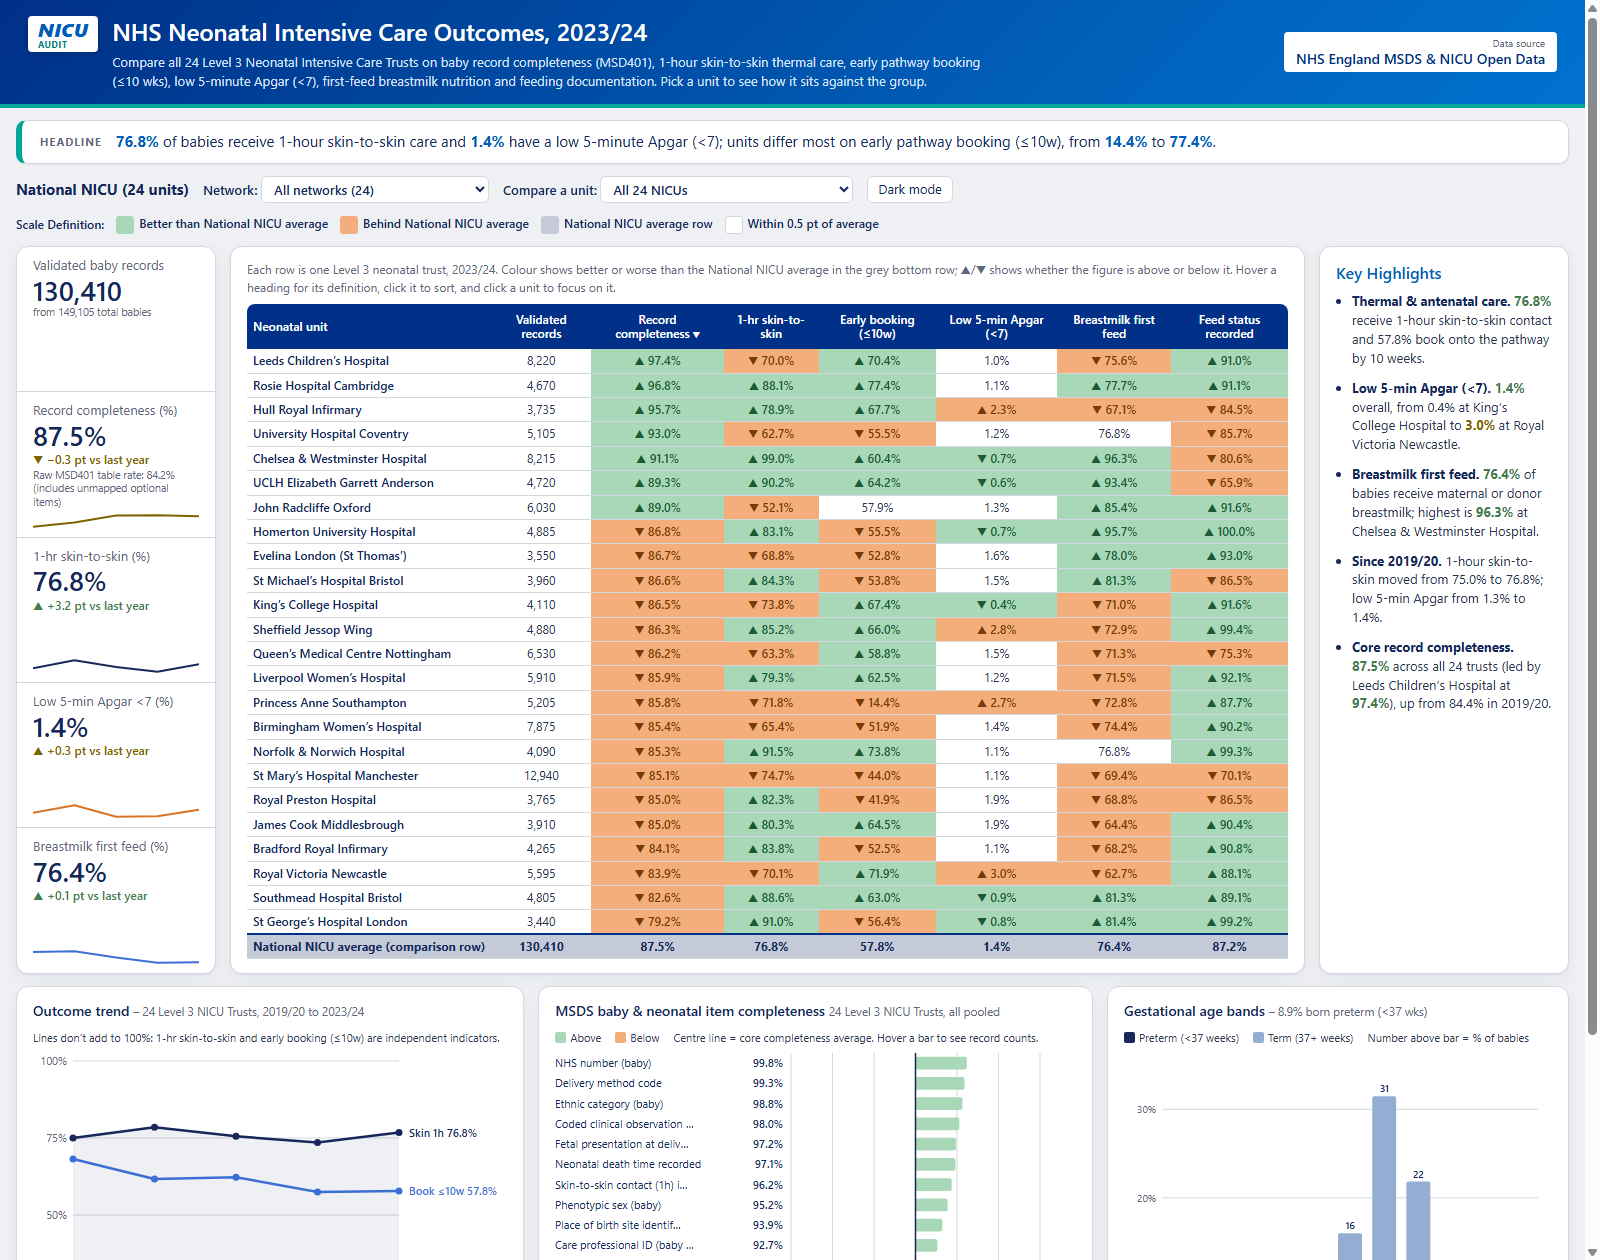
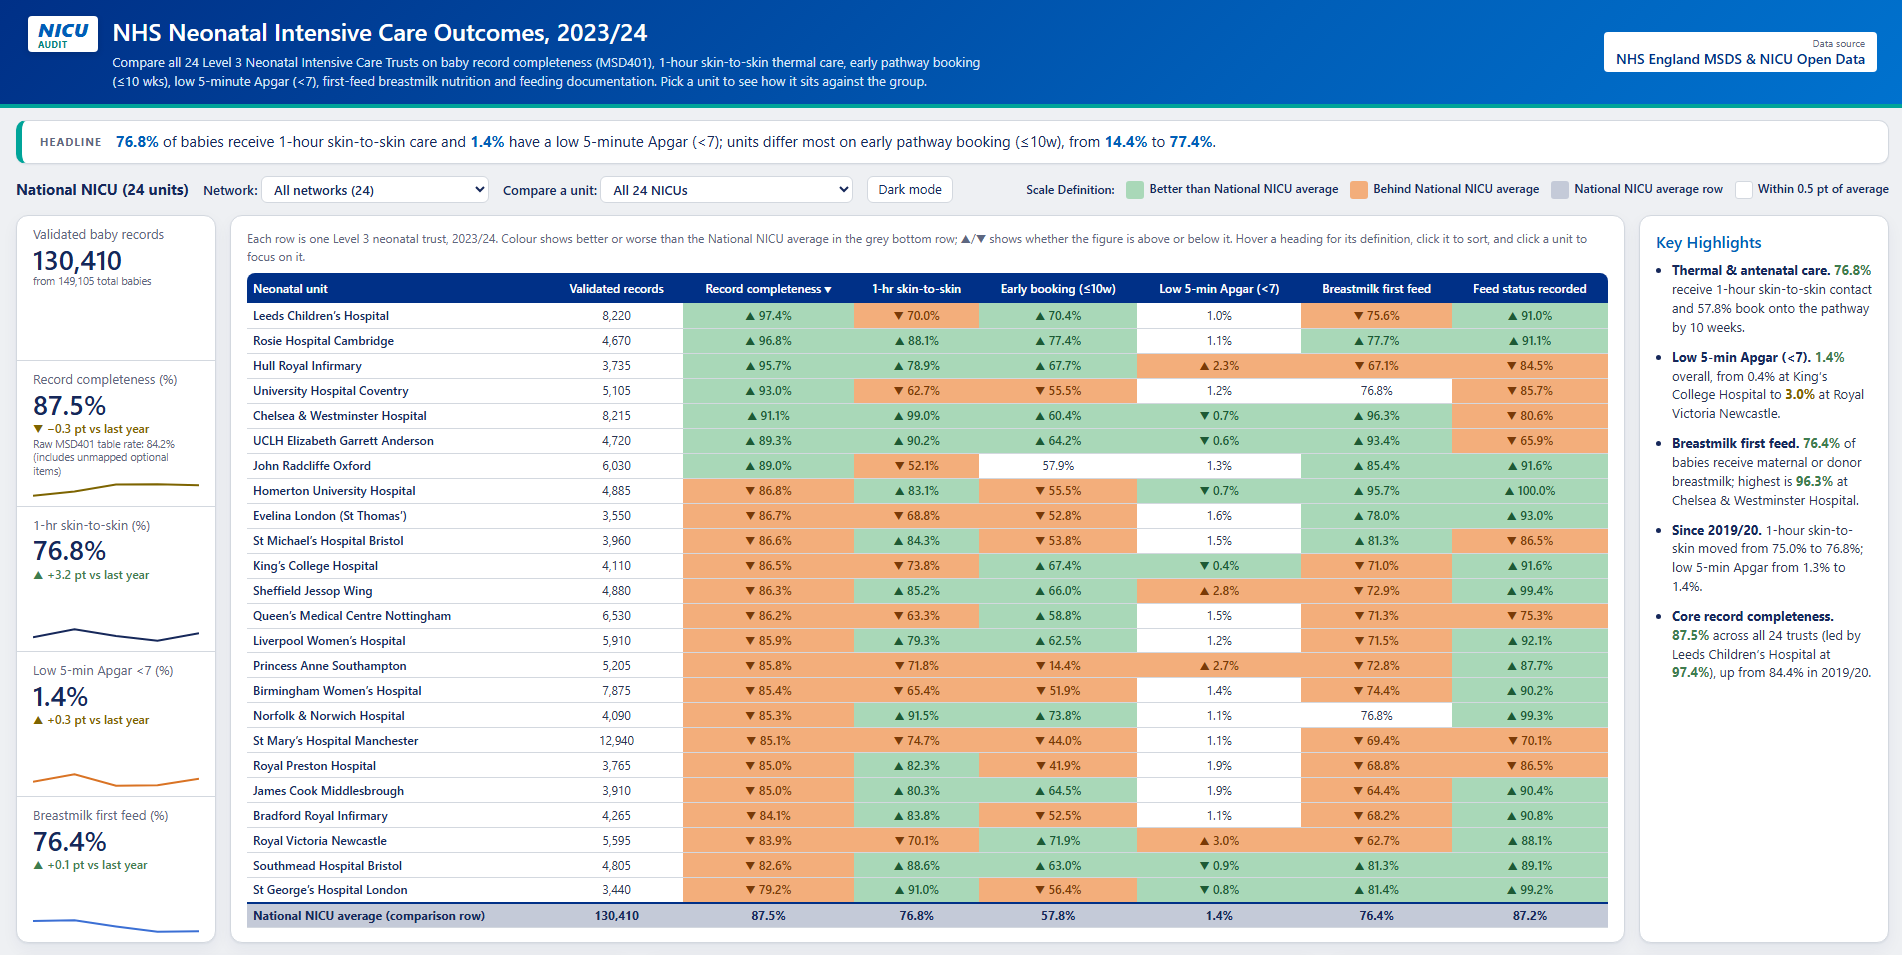
Crop NHS_Neonatal_cover.png to full-bleed 1902x955 matching Russell Group cover

diff --git a/script.js b/script.js
@@ -26,7 +26,7 @@
             title: "NHS Neonatal Intensive Care Outcomes 2023/24: Clinical Audit & MSDS Data Quality",
             question: "How do England's 24 Level 3 Neonatal Intensive Care Trusts compare on baby record completeness (MSD401) and perinatal care?",
             embedUrl: "https://subramanian-ms.github.io/nhs-neonatal-outcomes-dashboard/",
-            coverImg: "images/NHS_Neonatal_cover.png?v=20261031e",
+            coverImg: "images/NHS_Neonatal_cover.png?v=20261031f",
             coverAlt: "NHS Neonatal Intensive Care Outcomes 2023/24 Dashboard",
             tags: ["Python (pandas)", "NHS England open data", "NHS disclosure control", "MSDS data quality", "22 automated checks"],
             summary: "An interactive clinical and data-quality dashboard comparing all 24 English Level 3 Neonatal Intensive Care Trusts across Operational Delivery Networks (including Yorkshire & Humber) on core baby record completeness (MSD401), 1-hour skin-to-skin thermal care, early pathway booking (≤10 wks), low 5-minute Apgar (<7), first-feed breastmilk nutrition and feeding documentation.",
@@ -48,7 +48,7 @@
             title: "NHS Neonatal Intensive Care Outcomes 2023/24: Clinical Audit & MSDS Data Quality",
             question: "How do England's 24 Level 3 Neonatal Intensive Care Trusts compare on baby record completeness (MSD401) and perinatal care?",
             embedUrl: "https://subramanian-ms.github.io/nhs-neonatal-outcomes-dashboard/",
-            coverImg: "images/NHS_Neonatal_cover.png?v=20261031e",
+            coverImg: "images/NHS_Neonatal_cover.png?v=20261031f",
             coverAlt: "NHS Neonatal Intensive Care Outcomes 2023/24 Dashboard",
             tags: ["Python (pandas)", "NHS England open data", "NHS disclosure control", "MSDS data quality", "22 automated checks"],
             summary: "An interactive clinical and data-quality dashboard comparing all 24 English Level 3 Neonatal Intensive Care Trusts across Operational Delivery Networks (including Yorkshire & Humber) on core baby record completeness (MSD401), 1-hour skin-to-skin thermal care, early pathway booking (≤10 wks), low 5-minute Apgar (<7), first-feed breastmilk nutrition and feeding documentation.",
